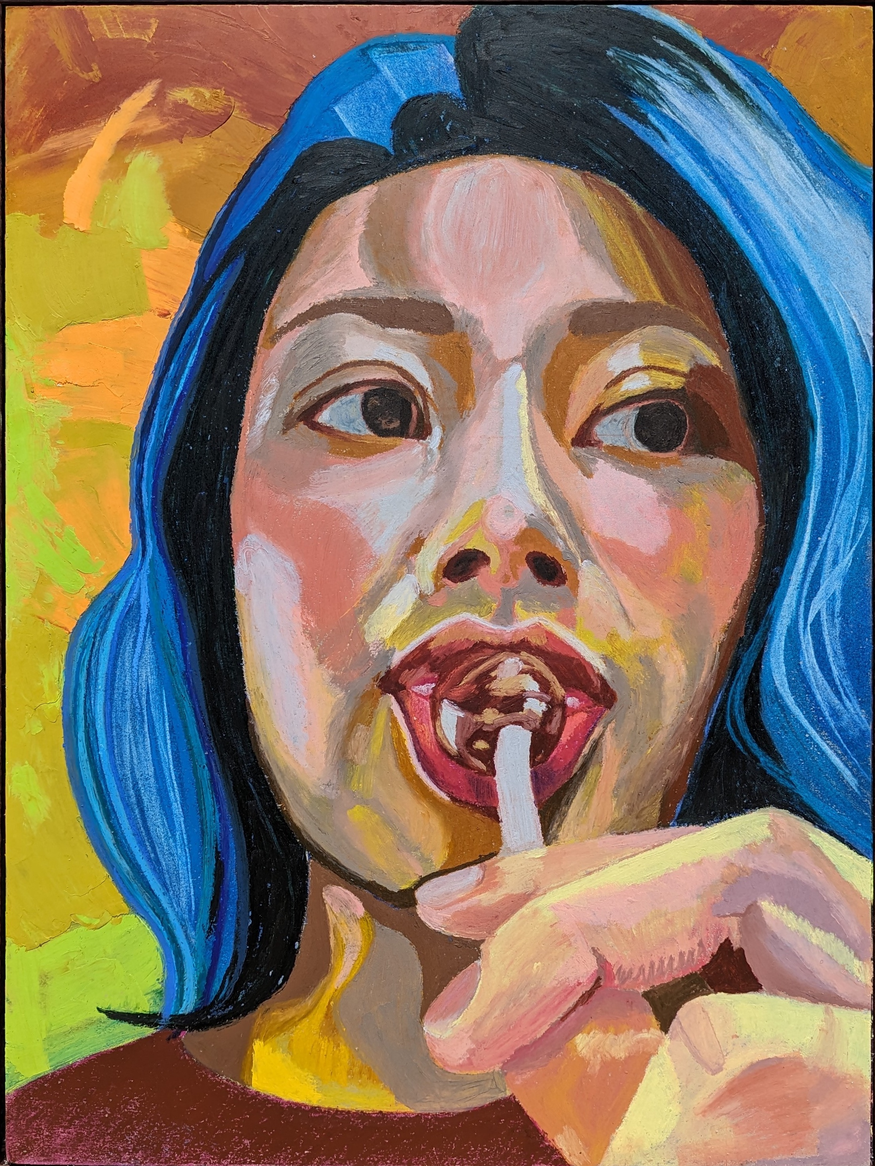
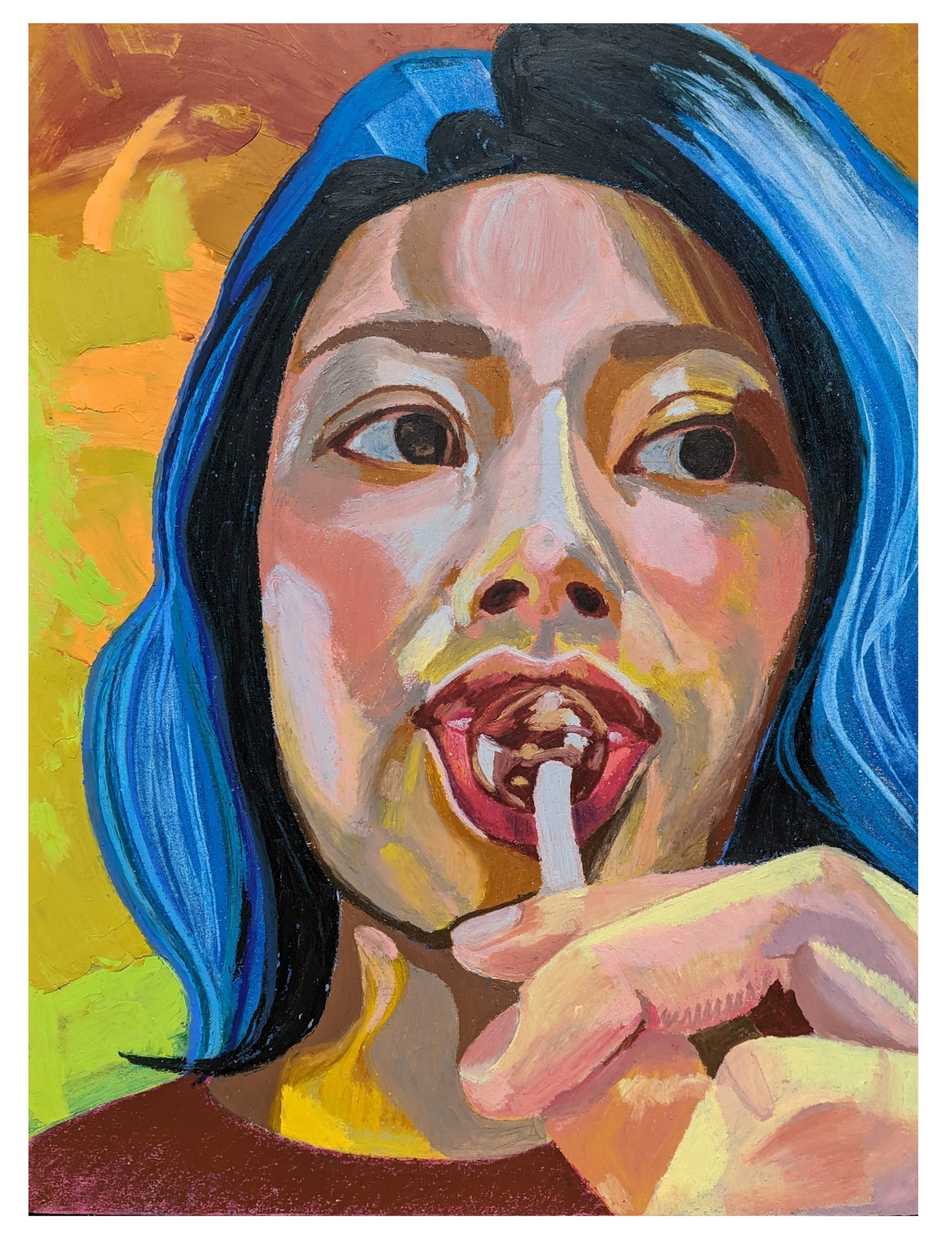
Update artwork presentation - Add white borders to artwork image assets - Randomize gallery display order - Filter out unpublished artwork from gallery view

diff --git a/_layouts/gallery.html b/_layouts/gallery.html
@@ -3,7 +3,8 @@ layout: default
 ---
 
 <div class="gallery">
-  {% for artwork in site.artwork %}
+  {% assign randomized_artwork = site.artwork | where_exp: "item", "item.published != false" | sample: site.artwork.size %}
+  {% for artwork in randomized_artwork %}
     <div class="gallery-item">
       <a href="{{ artwork.url }}">
         <img src="{{ artwork.image }}" alt="{{ artwork.title }}">

diff --git a/_artwork/shek-o.md b/_artwork/shek-o.md
@@ -1,0 +1,11 @@
+---
+layout: artwork
+title: Shek O
+date: 2013-01-01
+medium: Pencil, Acrylic, and Tape on Paper
+image: /assets/images/Chiu_Kammy_Shek O_2013.jpg
+description: Shek O depicts a decaying heap of newspapers and magazines, overflowing from the window frame of an abandoned shack in Shek O, a popular beach town and tourist destination on Hong Kong Island.
+dimensions: 40" x 30"
+---
+
+*Shek O* depicts a decaying heap of newspapers and magazines, overflowing from the window frame of an abandoned shack in Shek O, a popular beach town and tourist destination on Hong Kong Island.
